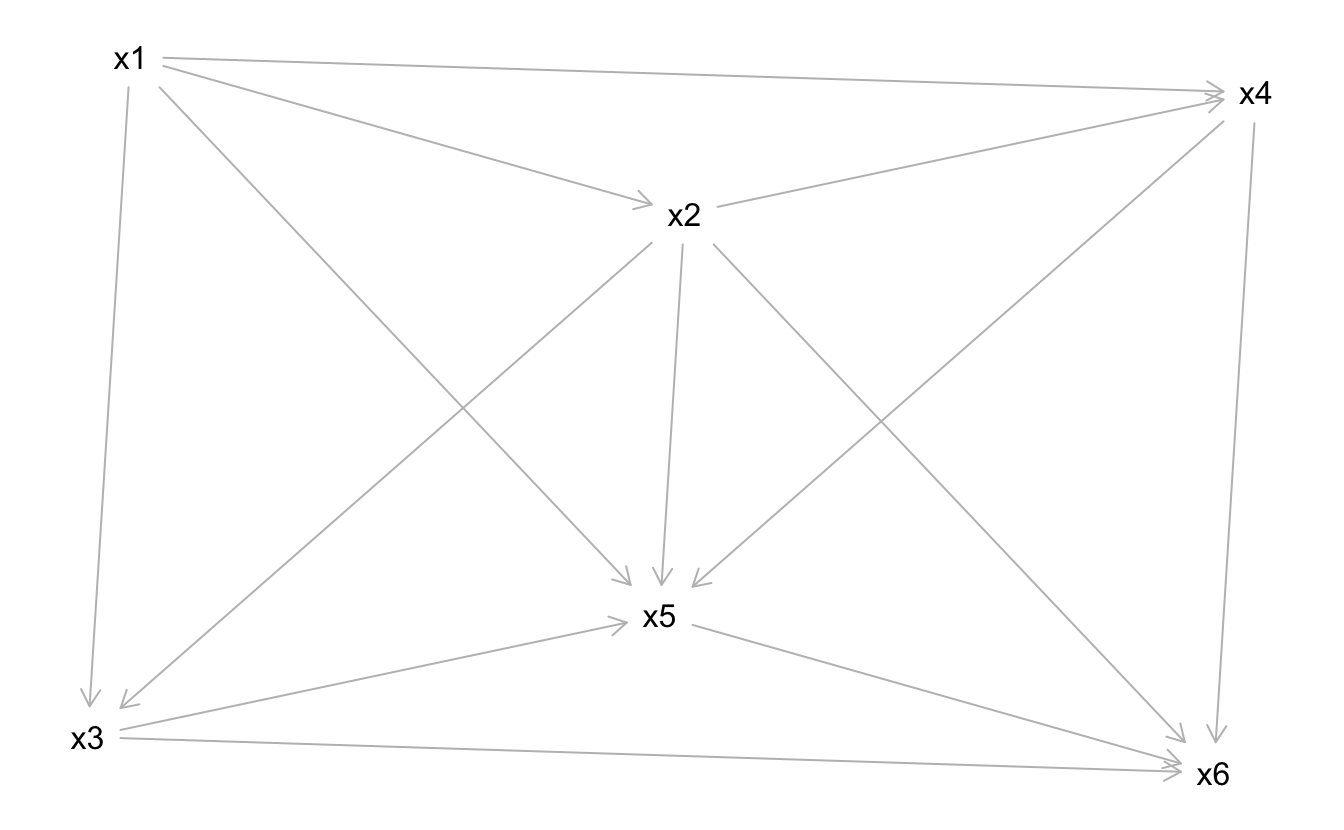
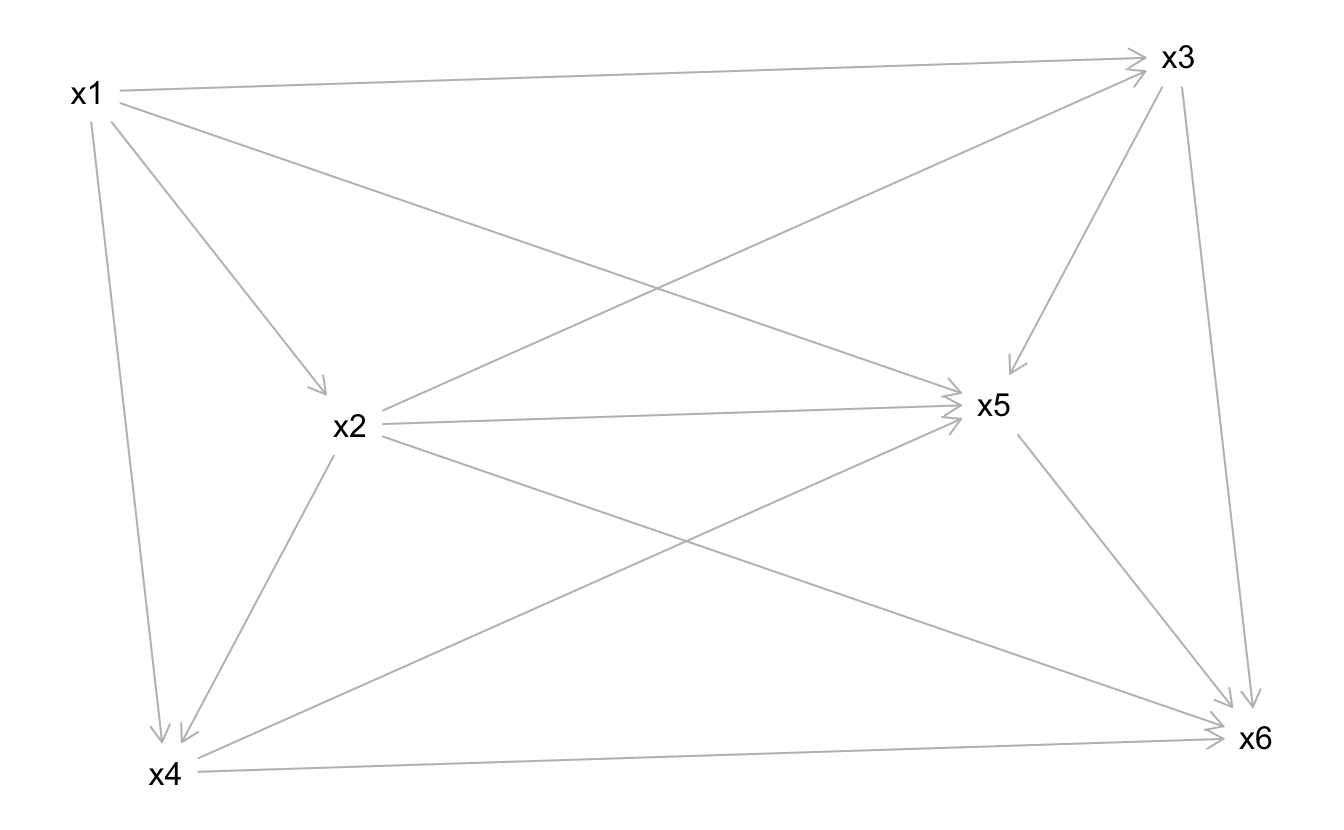
kausal23

diff --git a/_site/posts/kausal23/kausal23.html b/_site/posts/kausal23/kausal23.html
@@ -211,11 +211,11 @@ pre > code.sourceCode > span > a:first-child::before { text-decoration: underlin
 <section id="answerlist" class="level2">
 <h2 class="anchored" data-anchor-id="answerlist">Answerlist</h2>
 <ul>
+<li>{ x4 }</li>
+<li>{ x2, x5 }</li>
 <li>/</li>
-<li>{ x4, x5 }</li>
-<li>{ x1, x5 }</li>
-<li>{ x3 }</li>
-<li>/</li>
+<li>{ x1 }</li>
+<li>{ x1, x6 }</li>
 </ul>
 <p><br> <br> <br> <br> <br> <br> <br> <br> <br> <br></p>
 </section>
@@ -271,14 +271,14 @@ $open
 <section id="answerlist-1" class="level2">
 <h2 class="anchored" data-anchor-id="answerlist-1">Answerlist</h2>
 <ul>
+<li>Falsch</li>
+<li>Falsch</li>
 <li>Richtig</li>
-<li>Falsch</li>
-<li>Falsch</li>
 <li>Falsch</li>
 <li>Falsch</li>
 </ul>
 <p>Dieser DAG ist nicht ganz ein Gespenster-DAG. Es stimmt fast, dass man alle nicht-kausalen Pfade zumachen (blockieren) kann. Aber nicht ganz: Der Pfad von AV zu UV muss offen bleiben. Und dieser Pfad ist <em>NICHT</em> kausal in diesem DAG, da er in die falsche Richtung zeigt (von AV zu UV, was die falsche Richtung ist). Darum ist es ein “biasing path”, ein “böser Pfad”. Aber man kann ihn nicht zumachen, da man keine Pfade mit UV oder AV zumachen kann. Insofern ist dieser DAG ein verlorener Fall. 👻</p>
-<p>Es ist also ein bisschen ein Spezialfall. Wie gesagt, der entscheidende Punkt ist, dass der Pfad “x5 (AV) -&gt;x6 (UV)” nicht kausal ist.</p>
+<p>Es ist also ein bisschen ein Spezialfall. Wie gesagt, der entscheidende Punkt ist, dass der Pfad “x5 (AV) -&gt; x6 (UV)” nicht kausal ist.</p>
 <p>Natürlich ist das Beispiel extrem; niemand würde so einen DAG spezifizieren (normalerweise). Es macht keinen Sinn, eine Theorie, die sagt “Ich glaube, dass meine Ursache eigentliche die Wirkung ist”. 🤪</p>
 <hr>
 <p>Categories:</p>
@@ -1000,51 +1000,51 @@ window.document.addEventListener("DOMContentLoaded", function (event) {
 <span id="cb4-260"><a href="#cb4-260" aria-hidden="true" tabindex="-1"></a></span>
 <span id="cb4-261"><a href="#cb4-261" aria-hidden="true" tabindex="-1"></a>UV und AV werden durch folgende Pfade verbunden:</span>
 <span id="cb4-262"><a href="#cb4-262" aria-hidden="true" tabindex="-1"></a></span>
-<span id="cb4-265"><a href="#cb4-265" aria-hidden="true" tabindex="-1"></a><span class="in">```{r}</span></span>
-<span id="cb4-266"><a href="#cb4-266" aria-hidden="true" tabindex="-1"></a>g_paths <span class="ot">&lt;-</span> <span class="fu">paths</span>(g,</span>
-<span id="cb4-267"><a href="#cb4-267" aria-hidden="true" tabindex="-1"></a>      <span class="at">from =</span> exposure_var,</span>
-<span id="cb4-268"><a href="#cb4-268" aria-hidden="true" tabindex="-1"></a>      <span class="at">to =</span> outcome_var)</span>
-<span id="cb4-269"><a href="#cb4-269" aria-hidden="true" tabindex="-1"></a></span>
-<span id="cb4-270"><a href="#cb4-270" aria-hidden="true" tabindex="-1"></a>g_paths</span>
-<span id="cb4-271"><a href="#cb4-271" aria-hidden="true" tabindex="-1"></a><span class="in">```</span></span>
-<span id="cb4-272"><a href="#cb4-272" aria-hidden="true" tabindex="-1"></a></span>
+<span id="cb4-263"><a href="#cb4-263" aria-hidden="true" tabindex="-1"></a><span class="in">```{r list-all-paths}</span></span>
+<span id="cb4-264"><a href="#cb4-264" aria-hidden="true" tabindex="-1"></a><span class="in">g_paths &lt;- paths(g,</span></span>
+<span id="cb4-265"><a href="#cb4-265" aria-hidden="true" tabindex="-1"></a><span class="in">      from = exposure_var,</span></span>
+<span id="cb4-266"><a href="#cb4-266" aria-hidden="true" tabindex="-1"></a><span class="in">      to = outcome_var)</span></span>
+<span id="cb4-267"><a href="#cb4-267" aria-hidden="true" tabindex="-1"></a></span>
+<span id="cb4-268"><a href="#cb4-268" aria-hidden="true" tabindex="-1"></a><span class="in">g_paths</span></span>
+<span id="cb4-269"><a href="#cb4-269" aria-hidden="true" tabindex="-1"></a><span class="in">```</span></span>
+<span id="cb4-270"><a href="#cb4-270" aria-hidden="true" tabindex="-1"></a></span>
+<span id="cb4-271"><a href="#cb4-271" aria-hidden="true" tabindex="-1"></a></span>
+<span id="cb4-272"><a href="#cb4-272" aria-hidden="true" tabindex="-1"></a>Offenen Pfade sind der/die Pfad/e, die in der obigen Ausgabe unter <span class="in">`$open`</span> mit <span class="in">`TRUE`</span> gekennzeichnet sind.</span>
 <span id="cb4-273"><a href="#cb4-273" aria-hidden="true" tabindex="-1"></a></span>
-<span id="cb4-274"><a href="#cb4-274" aria-hidden="true" tabindex="-1"></a>Offenen Pfade sind der/die Pfad/e, die in der obigen Ausgabe unter <span class="in">`$open`</span> mit <span class="in">`TRUE`</span> gekennzeichnet sind.</span>
-<span id="cb4-275"><a href="#cb4-275" aria-hidden="true" tabindex="-1"></a></span>
+<span id="cb4-274"><a href="#cb4-274" aria-hidden="true" tabindex="-1"></a></span>
+<span id="cb4-275"><a href="#cb4-275" aria-hidden="true" tabindex="-1"></a>Der DAG ist wie folgt definiert:</span>
 <span id="cb4-276"><a href="#cb4-276" aria-hidden="true" tabindex="-1"></a></span>
-<span id="cb4-277"><a href="#cb4-277" aria-hidden="true" tabindex="-1"></a>Der DAG ist wie folgt definiert:</span>
-<span id="cb4-278"><a href="#cb4-278" aria-hidden="true" tabindex="-1"></a></span>
-<span id="cb4-279"><a href="#cb4-279" aria-hidden="true" tabindex="-1"></a><span class="in">```{r, comment = ""}</span></span>
-<span id="cb4-280"><a href="#cb4-280" aria-hidden="true" tabindex="-1"></a><span class="in">g</span></span>
-<span id="cb4-281"><a href="#cb4-281" aria-hidden="true" tabindex="-1"></a><span class="in">```</span></span>
+<span id="cb4-277"><a href="#cb4-277" aria-hidden="true" tabindex="-1"></a><span class="in">```{r, comment = ""}</span></span>
+<span id="cb4-278"><a href="#cb4-278" aria-hidden="true" tabindex="-1"></a><span class="in">g</span></span>
+<span id="cb4-279"><a href="#cb4-279" aria-hidden="true" tabindex="-1"></a><span class="in">```</span></span>
+<span id="cb4-280"><a href="#cb4-280" aria-hidden="true" tabindex="-1"></a></span>
+<span id="cb4-281"><a href="#cb4-281" aria-hidden="true" tabindex="-1"></a></span>
 <span id="cb4-282"><a href="#cb4-282" aria-hidden="true" tabindex="-1"></a></span>
 <span id="cb4-283"><a href="#cb4-283" aria-hidden="true" tabindex="-1"></a></span>
-<span id="cb4-284"><a href="#cb4-284" aria-hidden="true" tabindex="-1"></a></span>
-<span id="cb4-285"><a href="#cb4-285" aria-hidden="true" tabindex="-1"></a></span>
-<span id="cb4-286"><a href="#cb4-286" aria-hidden="true" tabindex="-1"></a><span class="in">```{r, echo = FALSE, results = "asis"}</span></span>
-<span id="cb4-287"><a href="#cb4-287" aria-hidden="true" tabindex="-1"></a><span class="in">answerlist(ifelse(sol_df$is_correct, "Richtig", "Falsch"), markup = "markdown")</span></span>
-<span id="cb4-288"><a href="#cb4-288" aria-hidden="true" tabindex="-1"></a><span class="in">```</span></span>
+<span id="cb4-284"><a href="#cb4-284" aria-hidden="true" tabindex="-1"></a><span class="in">```{r, echo = FALSE, results = "asis"}</span></span>
+<span id="cb4-285"><a href="#cb4-285" aria-hidden="true" tabindex="-1"></a><span class="in">answerlist(ifelse(sol_df$is_correct, "Richtig", "Falsch"), markup = "markdown")</span></span>
+<span id="cb4-286"><a href="#cb4-286" aria-hidden="true" tabindex="-1"></a><span class="in">```</span></span>
+<span id="cb4-287"><a href="#cb4-287" aria-hidden="true" tabindex="-1"></a></span>
+<span id="cb4-288"><a href="#cb4-288" aria-hidden="true" tabindex="-1"></a></span>
 <span id="cb4-289"><a href="#cb4-289" aria-hidden="true" tabindex="-1"></a></span>
 <span id="cb4-290"><a href="#cb4-290" aria-hidden="true" tabindex="-1"></a></span>
 <span id="cb4-291"><a href="#cb4-291" aria-hidden="true" tabindex="-1"></a></span>
-<span id="cb4-292"><a href="#cb4-292" aria-hidden="true" tabindex="-1"></a></span>
+<span id="cb4-292"><a href="#cb4-292" aria-hidden="true" tabindex="-1"></a>Dieser DAG ist nicht ganz ein Gespenster-DAG. Es stimmt fast, dass man alle nicht-kausalen Pfade zumachen (blockieren) kann. Aber nicht ganz: Der Pfad von AV zu UV muss offen bleiben. Und dieser Pfad ist *NICHT* kausal in diesem DAG, da er in die falsche Richtung zeigt (von AV zu UV, was die falsche Richtung ist).  Darum ist es ein "biasing path", ein "böser Pfad". Aber man kann ihn nicht zumachen, da man keine Pfade mit UV oder AV zumachen kann. Insofern ist dieser DAG ein verlorener Fall. 👻</span>
 <span id="cb4-293"><a href="#cb4-293" aria-hidden="true" tabindex="-1"></a></span>
-<span id="cb4-294"><a href="#cb4-294" aria-hidden="true" tabindex="-1"></a>Dieser DAG ist nicht ganz ein Gespenster-DAG. Es stimmt fast, dass man alle nicht-kausalen Pfade zumachen (blockieren) kann. Aber nicht ganz: Der Pfad von AV zu UV muss offen bleiben. Und dieser Pfad ist *NICHT* kausal in diesem DAG, da er in die falsche Richtung zeigt (von AV zu UV, was die falsche Richtung ist).  Darum ist es ein "biasing path", ein "böser Pfad". Aber man kann ihn nicht zumachen, da man keine Pfade mit UV oder AV zumachen kann. Insofern ist dieser DAG ein verlorener Fall. 👻</span>
+<span id="cb4-294"><a href="#cb4-294" aria-hidden="true" tabindex="-1"></a>Es ist also ein bisschen ein Spezialfall. Wie gesagt, der entscheidende Punkt ist, dass der Pfad "x5 (AV) -&gt; x6 (UV)" nicht kausal ist.</span>
 <span id="cb4-295"><a href="#cb4-295" aria-hidden="true" tabindex="-1"></a></span>
-<span id="cb4-296"><a href="#cb4-296" aria-hidden="true" tabindex="-1"></a>Es ist also ein bisschen ein Spezialfall. Wie gesagt, der entscheidende Punkt ist, dass der Pfad "x5 (AV) -&gt;x6 (UV)" nicht kausal ist.</span>
+<span id="cb4-296"><a href="#cb4-296" aria-hidden="true" tabindex="-1"></a>Natürlich ist das Beispiel extrem; niemand würde so einen DAG spezifizieren (normalerweise). Es macht keinen Sinn, eine Theorie, die sagt "Ich glaube, dass meine Ursache eigentliche die Wirkung ist". 🤪 </span>
 <span id="cb4-297"><a href="#cb4-297" aria-hidden="true" tabindex="-1"></a></span>
-<span id="cb4-298"><a href="#cb4-298" aria-hidden="true" tabindex="-1"></a>Natürlich ist das Beispiel extrem; niemand würde so einen DAG spezifizieren (normalerweise). Es macht keinen Sinn, eine Theorie, die sagt "Ich glaube, dass meine Ursache eigentliche die Wirkung ist". 🤪 </span>
+<span id="cb4-298"><a href="#cb4-298" aria-hidden="true" tabindex="-1"></a></span>
 <span id="cb4-299"><a href="#cb4-299" aria-hidden="true" tabindex="-1"></a></span>
 <span id="cb4-300"><a href="#cb4-300" aria-hidden="true" tabindex="-1"></a></span>
 <span id="cb4-301"><a href="#cb4-301" aria-hidden="true" tabindex="-1"></a></span>
-<span id="cb4-302"><a href="#cb4-302" aria-hidden="true" tabindex="-1"></a></span>
+<span id="cb4-302"><a href="#cb4-302" aria-hidden="true" tabindex="-1"></a>---</span>
 <span id="cb4-303"><a href="#cb4-303" aria-hidden="true" tabindex="-1"></a></span>
-<span id="cb4-304"><a href="#cb4-304" aria-hidden="true" tabindex="-1"></a>---</span>
+<span id="cb4-304"><a href="#cb4-304" aria-hidden="true" tabindex="-1"></a>Categories: </span>
 <span id="cb4-305"><a href="#cb4-305" aria-hidden="true" tabindex="-1"></a></span>
-<span id="cb4-306"><a href="#cb4-306" aria-hidden="true" tabindex="-1"></a>Categories: </span>
-<span id="cb4-307"><a href="#cb4-307" aria-hidden="true" tabindex="-1"></a></span>
-<span id="cb4-308"><a href="#cb4-308" aria-hidden="true" tabindex="-1"></a><span class="ss">- </span>dag</span>
-<span id="cb4-309"><a href="#cb4-309" aria-hidden="true" tabindex="-1"></a><span class="ss">- </span>causal</span>
+<span id="cb4-306"><a href="#cb4-306" aria-hidden="true" tabindex="-1"></a><span class="ss">- </span>dag</span>
+<span id="cb4-307"><a href="#cb4-307" aria-hidden="true" tabindex="-1"></a><span class="ss">- </span>causal</span>
 </code><button title="Copy to Clipboard" class="code-copy-button"><i class="bi"></i></button></pre></div>
 </div></div></div></div></div>
 </div> <!-- /content -->

diff --git a/_site/index.html b/_site/index.html
@@ -15232,7 +15232,7 @@ Dec 19, 2022
 </a>
 </div>
 </div>
-<div class="quarto-post image-right" data-index="383" data-categories="dag,causal" data-listing-date-sort="1671404400000" data-listing-file-modified-sort="1703244347525" data-listing-date-modified-sort="NaN" data-listing-reading-time-sort="5" data-listing-word-count-sort="891">
+<div class="quarto-post image-right" data-index="383" data-categories="dag,causal" data-listing-date-sort="1671404400000" data-listing-file-modified-sort="1703244372388" data-listing-date-modified-sort="NaN" data-listing-reading-time-sort="5" data-listing-word-count-sort="891">
 <div class="thumbnail">
 <p><a href="./posts/kausal23/kausal23.html" class="no-external"></a></p><a href="./posts/kausal23/kausal23.html" class="no-external">
 <p class="card-img-top"><img data-src="posts/kausal23/plot-dag-1.png"  class="thumbnail-image card-img"/></p>
